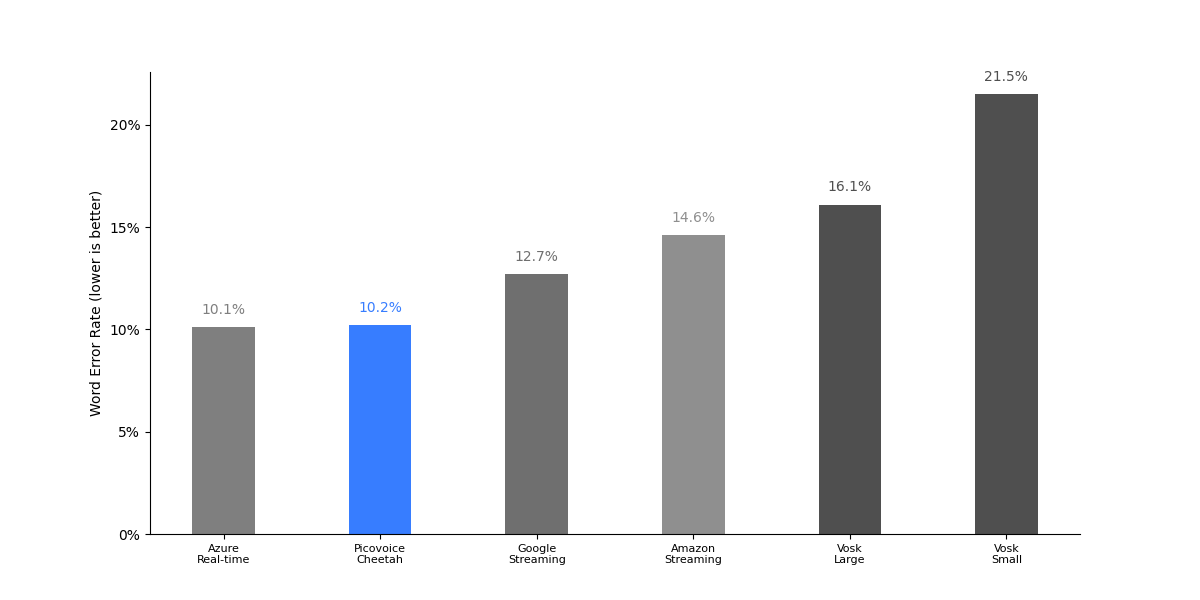
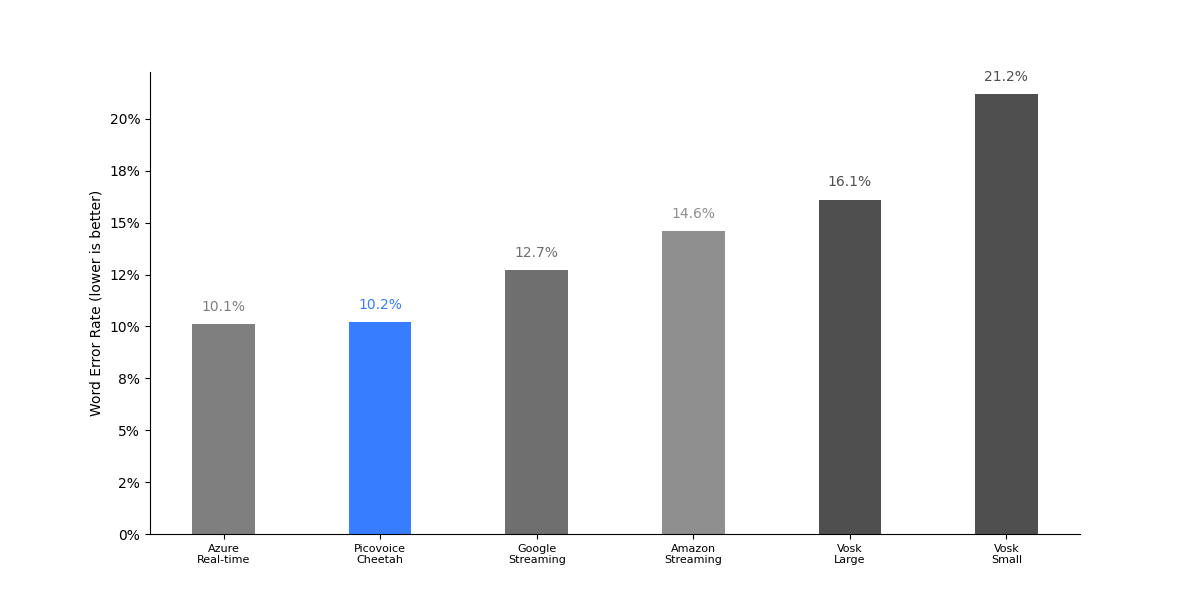
fix issues in readme

diff --git a/README.md b/README.md
@@ -20,7 +20,7 @@ This repo is a minimalist and extensible framework for benchmarking different sp
 - [Multilingual LibriSpeech](https://openslr.org/94)
 - [VoxPopuli](https://github.com/facebookresearch/voxpopuli)
 - [Fleurs](https://huggingface.co/datasets/google/fleurs) ([Download instructions](script/README.md#dataset-download))
-- [JSUT-BASIC](https://huggingface.co/datasets/japanese-asr/ja_asr.jsut_basic5000) ([Download instructions](script/README.md#dataset-download))
+- [JSUT_BASIC](https://huggingface.co/datasets/japanese-asr/ja_asr.jsut_basic5000) ([Download instructions](script/README.md#dataset-download))
 - [Zeroth Korean](https://www.openslr.org/40/)
 - [Pansori-TEDxKR](https://www.openslr.org/58/)
 
@@ -33,7 +33,9 @@ of the speech-to-text engine to the number of words in the reference transcript.
 
 ### Character Error Rate
 
-Character error rate (CER) is the ratio of edit distance between characters in a reference transcript and the characters in the output of the speech-to-text engine to the number of characters in the reference transcript. CER is reported for Korean and Japanese following industry standards.
+Character error rate (CER) is the ratio of edit distance between characters in a reference transcript and the characters in the output
+of the speech-to-text engine to the number of characters in the reference transcript. CER is reported for Korean and Japanese following
+industry standards.
 
 ### Punctuation Error Rate
 
@@ -42,7 +44,7 @@ Punctuation Error Rate (PER) is the ratio of punctuation-specific errors between
 ### Core-Hour
 
 The Core-Hour metric is used to evaluate the computational efficiency of the speech-to-text engine,
-indicating the number of CPU hours required to process one hour of audio. A speech-to-text
+indicating the number of CPU hours required to process one hundred hours of audio. A speech-to-text
 engine with lower Core-Hour is more computationally efficient. We omit this metric for cloud-based engines.
 
 ### Word Emission Latency
@@ -66,8 +68,8 @@ The aggregate size of models (acoustic and language), in MB. We omit this metric
 - [OpenAI Whisper](https://github.com/openai/whisper)
 - [Vosk](https://alphacephei.com/vosk/)
 - [Whisper.cpp](https://github.com/ggerganov/whisper.cpp)
-- [Picovoice Cheetah](https://picovoice.ai/)
-- [Picovoice Leopard](https://picovoice.ai/)
+- [Picovoice Cheetah](https://picovoice.ai/products/voice/streaming-speech-to-text/)
+- [Picovoice Leopard](https://picovoice.ai/products/voice/speech-to-text/)
 
 ## Usage
 
@@ -86,9 +88,10 @@ pip3 install -r requirements.txt
 
 In the following, we provide instructions for running the benchmark for each engine.
 The supported datasets are:
-`COMMON_VOICE`, `LIBRI_SPEECH_TEST_CLEAN`, `LIBRI_SPEECH_TEST_OTHER`, `TED_LIUM`, `MLS`, `VOX_POPULI`, `FLEURS`, `ZEROTH_KOREAN`, `PANSORI` and `JSUT_BASIC`.
+`COMMON_VOICE`, `LIBRI_SPEECH_TEST_CLEAN`, `LIBRI_SPEECH_TEST_OTHER`, `TED_LIUM`, `MLS`, `VOX_POPULI`, `FLEURS`,
+`ZEROTH_KOREAN`, `PANSORI` and `JSUT_BASIC`.
 The supported languages are:
-`EN`, `FR`, `DE`, `ES`, `IT`, `PT_BR`, `PT_PT`, `KO` and `JA`.
+`EN`, `FR`, `DE`, `ES`, `IT`, `PT-BR`, `PT-PT`, `KO` and `JA`.
 
 To evaluate Punctuation Error Rate, use the `--punctuation` flag.
 Use `--punctuation-set ${PUNCTUATION_SET}` to select which punctuation marks to calculate PER against, where `${PUNCTUATION_SET}` is one or more of `.`, `?` and `,` (default `.?`).
@@ -121,7 +124,7 @@ python3 benchmark.py \
 --dataset-folder ${DATASET_FOLDER} \
 --language ${LANGUAGE} \
 --engine AZURE_SPEECH_TO_TEXT \
---azure-speech-key ${AZURE_SPEECH_KEY}
+--azure-speech-key ${AZURE_SPEECH_KEY} \
 --azure-speech-location ${AZURE_SPEECH_LOCATION}
 ```
 
@@ -155,7 +158,7 @@ python3 benchmark.py \
 --dataset-folder ${DATASET_FOLDER} \
 --language EN \
 --engine IBM_WATSON_SPEECH_TO_TEXT \
---watson-speech-to-text-api-key ${WATSON_SPEECH_TO_TEXT_API_KEY}
+--watson-speech-to-text-api-key ${WATSON_SPEECH_TO_TEXT_API_KEY} \
 --watson-speech-to-text-url ${WATSON_SPEECH_TO_TEXT_URL}
 ```
 
@@ -163,7 +166,7 @@ python3 benchmark.py \
 
 Replace `${DATASET}` with one of the supported datasets, `${DATASET_FOLDER}` with the path to the dataset, `${LANGUAGE}` with the target language
 and `${WHISPER_MODEL}` with the whisper model type (`WHISPER_TINY`, `WHISPER_BASE`, `WHISPER_SMALL`,
-`WHISPER_MEDIUM`, `WHISPER_LARGE_V1`, `WHISPER_LARGE_V2`, `WHISPER_LARGE_V3` or `WHISPER_LARGE_TURBO`)
+`WHISPER_MEDIUM`, `WHISPER_LARGE`, `WHISPER_LARGE_V2`, `WHISPER_LARGE_V3` or `WHISPER_LARGE_TURBO`)
 
 ```console
 python3 benchmark.py \
@@ -183,7 +186,7 @@ and `${WHISPER_CPP_MODEL}` with the Whisper.cpp streaming model type (`WHISPER_C
 python3 benchmark.py \
 --engine ${WHISPER_CPP_MODEL} \
 --dataset ${DATASET} \
---dataset-folder ${DATASET_FOLDER}
+--dataset-folder ${DATASET_FOLDER} \
 --language ${LANGUAGE} \
 ```
 
@@ -197,7 +200,7 @@ This engine only supports English.
 python3 benchmark.py \
 --engine ${MOONSHINE_MODEL} \
 --dataset ${DATASET} \
---dataset-folder ${DATASET_FOLDER}
+--dataset-folder ${DATASET_FOLDER} \
 --language EN \
 ```
 
@@ -292,7 +295,7 @@ python3 benchmark_latency.py \
 --engine AZURE_SPEECH_TO_TEXT_REAL_TIME \
 --dataset-folder ${DATASET_FOLDER} \
 --language ${LANGUAGE} \
---azure-speech-key ${AZURE_SPEECH_KEY}
+--azure-speech-key ${AZURE_SPEECH_KEY} \
 --azure-speech-location ${AZURE_SPEECH_LOCATION}
 ```
 
@@ -338,13 +341,12 @@ python3 benchmark_latency.py \
 
 Replace `${DATASET_FOLDER}` with the path to an aligned dataset
 and `${VOSK_MODEL}` with the Vosk streaming model type (`VOSK_STREAMING_SMALL` or `VOSK_STREAMING_LARGE`).
-This engine only supports English.
 
 ```console
 python3 benchmark_latency.py \
 --engine ${VOSK_MODEL} \
 --dataset-folder ${DATASET_FOLDER} \
---language EN
+--language ${LANGUAGE}
 ```
 
 #### Nemotron 3.5 ASR Streaming Instructions
@@ -442,22 +444,22 @@ The measurement is carried out on an Ubuntu 22.04 machine with AMD CPU (`AMD Ryz
 
 ![](results/plots/cpu_usage_comparison.png)
 
-|            Engine             | Core-Hour | Model Size / MB |
-|:-----------------------------:|:---------:|:---------------:|
-|        Whisper Medium         |   1.52    |      1457       |
-|         Whisper Small         |   0.99    |       462       |
-|         Whisper Base          |   0.32    |       139       |
-|         Whisper Tiny          |   0.16    |       73        |
-|   Whisper.cpp Streaming Base  |   1.67    |       139       |
-|   Whisper.cpp Streaming Tiny  |   0.77    |       73        |
-|          Vosk Large           |   0.34    |      2733       |
-|          Vosk Small           |   0.12    |       68        |
-|   Moonshine Streaming Tiny    |   1.03    |       49        |
-|  Moonshine Streaming Small    |   2.22    |       158       |
-|  Moonshine Streaming Medium   |   3.36    |       290       |
-|  Nemotron 3.5 ASR Streaming   |   2.43    |      2210       |
-|      Picovoice Leopard        |   0.026   |       37        |
-|      Picovoice Cheetah        |   0.087   |       34        |
+|            Engine             | Core-Hours | Model Size / MB |
+|:-----------------------------:|:----------:|:---------------:|
+|        Whisper Medium         |   152.2    |      1457       |
+|         Whisper Small         |   98.8     |       462       |
+|         Whisper Base          |   32.3     |       139       |
+|         Whisper Tiny          |   15.8     |       73        |
+|   Whisper.cpp Streaming Base  |   166.8    |       139       |
+|   Whisper.cpp Streaming Tiny  |   76.7     |       73        |
+|          Vosk Large           |   33.6     |      2733       |
+|          Vosk Small           |   11.7     |       68        |
+|   Moonshine Streaming Tiny    |   103.0    |       49        |
+|  Moonshine Streaming Small    |   222.0    |       158       |
+|  Moonshine Streaming Medium   |   336.0    |       290       |
+|  Nemotron 3.5 ASR Streaming   |   243.0    |      2210       |
+|      Picovoice Leopard        |   2.6      |       37        |
+|      Picovoice Cheetah        |   8.7      |       34        |
 
 ![](results/plots/wer_vs_core_hour_comparison.png)
 
@@ -471,9 +473,9 @@ To obtain these results, we used 100 randomly selected files from the LibriSpeec
 
 |              Engine             | Latency (ms) |
 |:-------------------------------:|:------------:|
-|  Azure Speech-to-Text Real-time |     500      |
-|   Amazon Transcribe Streaming   |     300      |
-| Google Speech-to-Text Streaming |     890      |
+|  Azure Speech-to-Text Real-time |     520      |
+|   Amazon Transcribe Streaming   |     290      |
+| Google Speech-to-Text Streaming |     830      |
 |    Nemotron 3.5 ASR Streaming   |     450      |
 |    Whisper.cpp Streaming Tiny   |    1240      |
 |    Whisper.cpp Streaming Base   |    1240      |
@@ -567,7 +569,7 @@ To obtain these results, we used 100 randomly selected files from the LibriSpeec
 |:------------------------------:|:-----------:|:------:|:---------:|:-------:|
 |   Amazon Transcribe Streaming  |    3.6%     | 23.4%  |   20.1%   |  15.7%  |
 |  Azure Speech-to-Text Real Time|    5.7%     | 29.3%  |   28.6%   |  21.2%  |
-| Google Speech-to-Text Streaming|    6.4%     | 27.5%  |   28.5%   |  24.1%  |
+| Google Speech-to-Text Streaming|    16.4%    | 27.5%  |   28.5%   |  24.1%  |
 |   Nemotron 3.5 ASR Streaming   |    17.2%    | 26.1%  |   31.0%   |  24.8%  |
 |       Picovoice Cheetah        |    2.1%     | 24.9%  |   25.1%   |  17.4%  |
 
@@ -597,7 +599,7 @@ To obtain these results, we used 100 randomly selected files from the LibriSpeec
 |:------------------------------:|:-----------:|:-------------------------:|:---------:|:-------:|
 |   Amazon Transcribe Streaming  |    4.9%     |          10.8%            |   20.7%   |  12.1%  |
 |  Azure Speech-to-Text Real Time|    5.9%     |          14.2%            |   19.4%   |  13.2%  |
-| Google Speech-to-Text Streaming|    5.9%     |          14.2%            |   19.4%   |  13.2%  |
+| Google Speech-to-Text Streaming|    5.7%     |          20.1%            |   18.8%   |  14.9%  |
 |   Nemotron 3.5 ASR Streaming   |    8.4%     |          18.5%            |   23.5%   |  16.8%  |
 |       Picovoice Cheetah        |    7.7%     |          13.2%            |   17.7%   |  12.9%  |
 
@@ -707,8 +709,8 @@ For Amazon Transcribe, Azure Speech-to-Text, and Google Speech-to-Text, we repor
 
 |             Engine             | CommonVoice | Zeroth Korean | Pansori | Average |
 |:------------------------------:|:-----------:|:-------------:|:-------:|:-------:|
-|   Amazon Transcribe Streaming  |    14.8%    |     13.3%     |  5.1%   |  7.3%   |
-|  Azure Speech-to-Text Real Time|    8.1%     |     8.6%      |  12.1%  |  9.6%   |
+|   Amazon Transcribe Streaming  |    14.8%    |     13.3%     |  12.1%  |  13.4%  |
+|  Azure Speech-to-Text Real Time|    8.1%     |     8.6%      |  5.1%   |  7.3%   |
 | Google Speech-to-Text Streaming|    32.0%    |     33.7%     |  13.5%  |  26.4%  |
 |          Vosk Small            |    39.0%    |     12.7%     |  40.7%  |  30.8%  |
 |       Picovoice Cheetah        |    7.0%     |     3.7%      |  6.5%   |  5.7%   |
@@ -746,6 +748,6 @@ For Amazon Transcribe, Azure Speech-to-Text, and Google Speech-to-Text, we repor
 |             Engine              | CommonVoice | Fleurs | Average |
 |:-------------------------------:|:-----------:|:------:|:-------:|
 |   Amazon Transcribe Streaming   |    20.7%    |  5.5%  |  13.1%  |
-| Azure Speech-to-Text Real-time  |    23.7%    | 20.0%  |  21.8%  |
-| Google Speech-to-Text Streaming |    28.6%    | 22.3%  |  25.4%  |
+| Azure Speech-to-Text Real-time  |    23.7%    | 20.0%  |  21.9%  |
+| Google Speech-to-Text Streaming |    28.6%    | 22.3%  |  25.5%  |
 |        Picovoice Cheetah        |    26.3%    |  2.6%  |  14.5%  |
